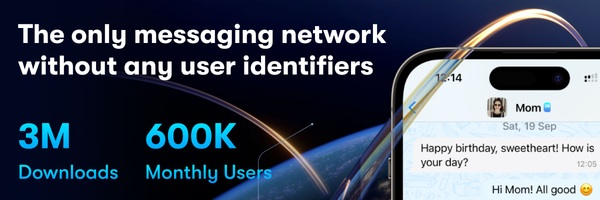
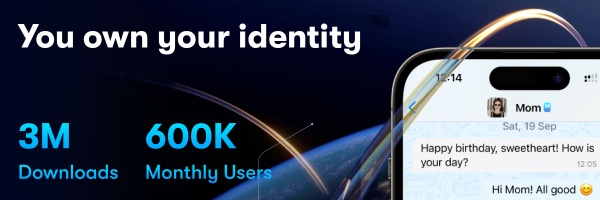
ui: what's new in v7.1.4, security audit by Trail of Bits (#8201)
* ui: what's new in v7.1.4, security audit by Trail of Bits; blog placeholder

* ci: iOS and desktop references of v7.1.4 what's new

* blog: placeholder moved to its own PR

* ui: shorter v7.1.4 what's new texts

* ui: v7.1.4 audit item: ask contacts to upgrade, report soon

* android, desktop: crowdfunding image says you own your identity

* android, desktop: crowdfunding image sizes from the 1200x400 source

* ci: desktop references of v7.1.4 what's new with the new image and texts

* ui: crowdfunding caption as before, page headline Own a part of SimpleX Chat, report on its own line

* android, desktop: phone corner as in the original crowdfunding image

Changed region(s): [[0.03, 0.12, 0.66, 0.27], [0.03, 0.27, 0.63, 0.45]]

diff --git a/apps/ios/Shared/Views/Onboarding/WhatsNewView.swift b/apps/ios/Shared/Views/Onboarding/WhatsNewView.swift
@@ -700,9 +700,16 @@ private let versionDescriptions: [VersionDescription] = [
         ]
     ),
     VersionDescription(
-        version: "v7.1",
+        version: "v7.1.4",
         post: nil,
-        features: (isInUS ? [
+        features: [
+            Feature.feature(Description(
+                icon: "checkmark.shield",
+                title: "New security audit by Trail of Bits",
+                description: "Please ask your contacts to upgrade.\nReport will be public soon.",
+                learnMore: URL(string: "https://simplex.chat/blog/20261121-simplex-chat-security-audit-trail-of-bits-security-process.html")
+            ))
+        ] + (isInUS ? [
             .view(FeatureView(
                 icon: nil,
                 title: "Own a part of SimpleX Chat",
@@ -904,7 +911,7 @@ struct GetStakeView: View {
     var body: some View {
         ZoomablePageView {
             VStack(alignment: .leading, spacing: 18) {
-                Text(verbatim: "Invest in\nSimpleX Chat")
+                Text(verbatim: "Own a part of\nSimpleX Chat")
                     .font(.largeTitle)
                     .bold()
                     .fixedSize(horizontal: false, vertical: true)

diff --git a/apps/multiplatform/common/src/commonMain/kotlin/chat/simplex/common/views/onboarding/WhatsNewView.kt b/apps/multiplatform/common/src/commonMain/kotlin/chat/simplex/common/views/onboarding/WhatsNewView.kt
@@ -992,9 +992,15 @@ private val versionDescriptions: List<VersionDescription> = listOf(
     )
   ),
   VersionDescription(
-    version = "v7.1",
+    version = "v7.1.4",
     post = null,
     features = listOf(
+      VersionFeature.FeatureDescription(
+        icon = MR.images.ic_verified_user,
+        titleId = MR.strings.v7_1_4_security_audit,
+        descrId = MR.strings.v7_1_4_security_audit_descr,
+        learnMoreLink = "https://simplex.chat/blog/20261121-simplex-chat-security-audit-trail-of-bits-security-process.html"
+      ),
       VersionFeature.FeatureView(
         icon = null,
         titleId = MR.strings.v7_1_invest,
@@ -1245,7 +1251,7 @@ fun GetStakeView(showFirstImage: Boolean, inCenterOfWindow: Boolean = false, clo
 
   ColumnWithScrollBar(Modifier.pinchZoom().padding(horizontal = DEFAULT_PADDING)) {
     // in the center of the window the page is wide enough for the title to fit on one line
-    val title = "Invest in\nSimpleX Chat"
+    val title = "Own a part of\nSimpleX Chat"
     AppBarTitle(if (inCenterOfWindow) title.replace("\n", " ") else title, withPadding = false)
     if (showFirstImage) {
       slideImage(getStakeSlides[0])
